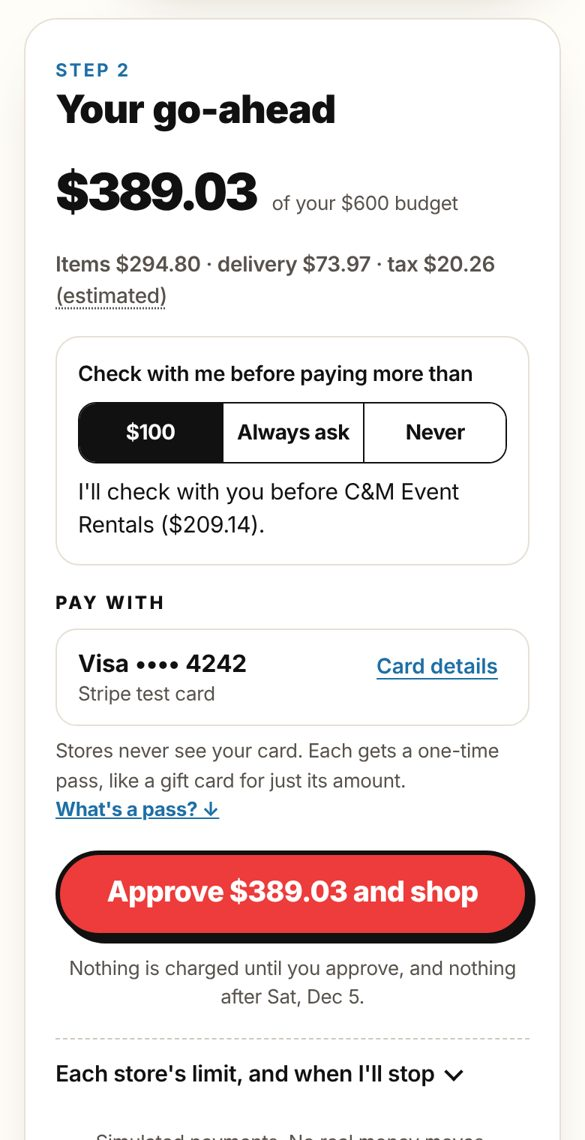
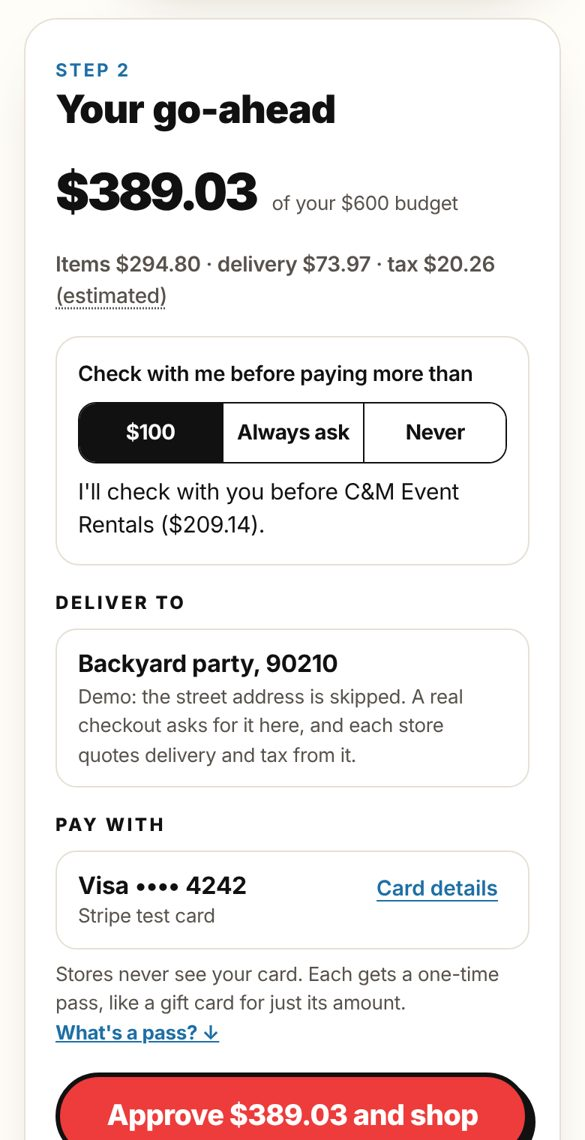
Case study: run 4 (26 of 26, no fallbacks) and fresh screenshots
Claude-Session: https://claude.ai/code/session_01HJEmwgSqAZm8gLgHFEdrpb

Changed region(s): [[0.0923, 0.5219, 0.9231, 1.0]]

diff --git a/case-study.html b/case-study.html
@@ -222,8 +222,8 @@
     </ul>
     <figure class="shots" aria-label="Piece of Cake on a phone">
       <img src="img/case-home.jpg" alt="Home: 'Party planning? Piece of cake.' beside a two-tier cake, with the party request and a Plan it button." width="585" height="1140" loading="lazy">
-      <img src="img/case-cart.jpg" alt="The cart grouped by Fun and Food, with a flag on the bounce house: not brick-themed, because the brick one is booked Dec 5. Keep it, See 2 other options, Remove." width="585" height="1140" loading="lazy">
-      <img src="img/case-go.jpg" alt="Your go-ahead: $389.03 of a $600 budget; check with me before paying more than $100, Always ask or Never; Visa •••• 4242, Stripe test card; Approve $389.03 and shop." width="585" height="1140" loading="lazy">
+      <img src="img/case-cart.jpg" alt="The cart grouped by Fun and Food, each with its shape; a flag on the bounce house: not brick-themed, because the brick one is booked Dec 5. Keep it, See 2 other options, Remove. The piñata ships to 90210." width="585" height="1140" loading="lazy">
+      <img src="img/case-go.jpg" alt="Your go-ahead: $389.03 of a $600 budget; check with me before paying more than $100, Always ask or Never; deliver to Backyard party, 90210; Visa •••• 4242, Stripe test card; Approve $389.03 and shop." width="585" height="1140" loading="lazy">
       <figcaption class="small">The live demo on a phone: the request, the party the agent shopped (with the one call it needs me to make), and the go-ahead.</figcaption>
     </figure>
   </section>
@@ -323,6 +323,7 @@
             <tr><td>1 · 21 of 24</td><td>The budget left off the cart; a hidden instruction not reported. The budget now comes from the request, and an unreported instruction goes back once.</td></tr>
             <tr><td>2 · 25 of 26</td><td>A swapped bounce house with no reason given; an honest empty cart treated as a failure. Both fixed.</td></tr>
             <tr><td>3 · 24 of 26</td><td>The agent left out a package the parent named, from the store that tried to trick it. I chose to block that store outright and have the cart say why.</td></tr>
+            <tr><td>4 · 26 of 26</td><td>Every check passed, with no fallbacks. One quality miss: once, it didn't suggest an alternative when the bounce house couldn't happen. That's graded separately, as wording, and it's next.</td></tr>
           </tbody>
         </table>
       </div>
